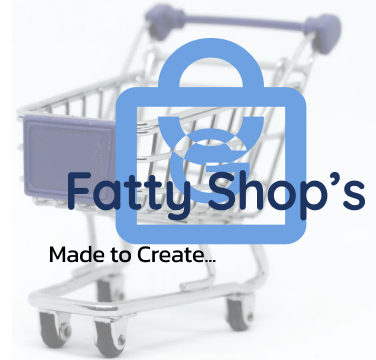
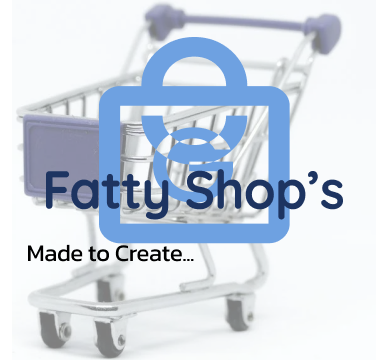
finished main page

Changed region(s): [[0.0585, 0.0917, 0.9947, 0.7333]]

diff --git a/styles.css b/styles.css
@@ -1,74 +1,163 @@
-
-*{
-    padding: 0;
-    margin: 0;
-    font-family: 'Kanit', sans-serif;
+* {
+  padding: 0;
+  margin: 0;
+  font-family: 'Kanit', sans-serif;
+}
+body {
+  background-color: #fafafa;
 }
 
 @media only screen and (max-width: 430px) {
+    #aboutImageDiv{
+        display: flex;
+        flex-direction: column;
+        align-items: center;
+        justify-content: center;
+        width: 100%;
+        margin-bottom: 60px;
+    }
+    #aboutImage{
+        height: 70%;
+        width: 70%;
+    }
+    .about{
+        background-color: #6290C8;
+        border-radius: 15px;
+        color: white;
+        width: 90%;
+        display: flex;
+text-align: center;
+        font-size: x-large;
+        font-weight: bold;
+        margin-bottom:30px;
+    }
+ 
+    .about p{
+        text-shadow: 0px 10px 15px #000;
+        width: 88%;
+        margin-left: 5%;
+    }
+  .article1 {
+    background-image: url('./article1.png');
+    width: 404px;
+    height: 226px;
+    display: flex;
+    align-items: center;
+    text-align: center;
+    font-size: x-large;
+    color: white;
+    margin-top: 40px;
+    text-shadow: 0px 10px 15px #000;
+    margin-bottom: 50px;
+  }
+  .article2 {
+    background-image: url('./article2.png');
+    width: 404px;
+    display: flex;
+    align-items: center;
+    text-shadow: 0px 10px 15px #000;
+    height: 226px;
+    text-align: center;
+    font-size: 22px;
+    color: white;
+    margin-bottom: 70px;
 
+  }
+ .main {
+    display: flex;
+    flex-direction: column;
+    align-items: center;
+    justify-content: center;
+  }
 
-#main{
-display: flex;
-align-items: center;
-justify-content: center;
-}
+  #imglogo{
+    margin-top: 140px;
+  }
 
+  .mainArtice {
+    font-weight: bolder;
+    border-radius: 15px;
+    margin-top: 60px;
+    width: 90%;
+    color: #1d3461;
+    text-align: center;
+    font-size: 40px;
+    background-color: #829cbc;
+  }
 
+  #getStarted1 {
+    width: 50%;
+    font-weight: bold;
+    height: 60px;
+    border-radius: 15px;
+    margin-top: 37px;
+    text-align: center;
+    font-size: 36px;
+    color: #ffffff;
+    background-color: #1d3461;
+  }
+  #getStarted2 {
+    width: 50%;
+    font-weight: bold;
+    height: 60px;
+    border-radius: 15px;
+    margin-bottom: 90px;
+    text-align: center;
+    font-size: 36px;
+    color: #ffffff;
+    background-color: #1d3461;
+  }
 
-header{
-    background-color: #1D3461;
+  header {
+    position: fixed;
+    z-index: 200;
+    background-color: #1d3461;
     width: 100%;
-}
-#smallImgHeader1{
+  }
+  #smallImgHeader1 {
     height: 64px;
     width: 64px;
     margin-top: 1.5%;
     margin-left: 1.5%;
-}
-#smallImgHeader2{
+  }
+  #smallImgHeader2 {
     height: 48px;
     width: 48px;
     float: right;
     margin-top: 3.2%;
     margin-right: 3%;
-}
-#smallImgFooter{
+  }
+  #smallImgFooter {
     height: 48px;
     width: 48px;
     margin-top: 1.5%;
     margin-left: 1.5%;
-}
-#smallImgFooter2{
+  }
+  #smallImgFooter2 {
     float: right;
-    margin-top:1.5%;
+    margin-top: 1.5%;
     margin-right: 1.5%;
-}
-footer{
-    background-color: #1D3461;
+  }
+  footer {
+    background-color: #1d3461;
     width: 100%;
     bottom: 0;
     position: fixed;
-
-}
-#logoFooter{
+  }
+  #logoFooter {
     margin-left: 15%;
     margin-bottom: 10px;
-}
-a{
+  }
+  a {
     text-decoration: none;
     color: white;
-}
-a:hover{
+  }
+  a:hover {
     text-decoration: none;
-}
+  }
 
-
-
-
-
-.Navbar {
-    background-color: #1F487E;
+  .Navbar {
+    background-color: #1f487e;
     display: flex;
     font-family: sans-serif;
     color: #ebebeb;
@@ -77,48 +166,32 @@ a:hover{
     align-items: center;
     align-content: center;
   }
-      .Navbar__Items,
-    .Navbar {
-      flex-direction: column;
-    }
-      
-  .Navbar__Items {
-      display:none;
-      
-    }
-      
-  .Navbar__ToggleShow {
-      display: flex;
-      position: fixed;
-      background-color: #1F487E;
-      width: 100%;
-      align-items: center;
-justify-content: center;
-    }
+  .Navbar__Items,
+  .Navbar {
+    flex-direction: column;
+  }
 
-  .square{
+  .Navbar__Items {
+    display: none;
+  }
+
+  .Navbar__ToggleShow {
+    display: flex;
+    position: fixed;
+    margin-top: 76px;
+    background-color: #1f487e;
+    width: 100%;
+    align-items: center;
+    justify-content: center;
+  }
+
+  .square {
     margin-top: 5px;
     margin-bottom: 5px;
     width: 250px;
     height: 48px;
     border-radius: 15px;
     text-align: center;
-    background-color: #1D3461;
+    background-color: #1d3461;
   }
-
-
-
-
 }
-
-
-
-
-
-
-
-
-
-
-
-

diff --git a/index.html b/index.html
@@ -44,8 +44,60 @@
 
 
 
-<div id="main">
-<img src="./cartImage.png" alt="">
+<div class="main">
+    
+<img id="imglogo" src="./cartImage.png" alt="">
+
+<div class="mainArtice">
+    <p><span>Free</span> online store generator dedicated to Small Businesses!</p>
+</div>
+<a href="" id="getStarted1">Get started</a>
+
+<div class="article1">
+<p>
+Online stores have surpassed brick-and-mortar supermarkets due to 
+the convenience of shopping from home, the wide range of products
+available, and the ability to compare prices among different retailers.
+</p>
+</div>
+<div class="article2">
+<p>
+    Despite this, 70% of smaller businesses have not established an online presence. 
+    It is worthwhile for such businesses to consider expanding their operations on 
+    the internet. Our Free Generator is an ideal tool to facilitate this process.
+</p>
+</div>
+    <div id="aboutImageDiv">
+        <img id="aboutImage"src="./aboutImage.svg" alt="">
+    </div>
+<div class="about">
+
+<p>  <br>
+      <span style="font-size: xx-large;">Welcome to Our online shop generator!</span> <br><br>
+
+    Are you a small business owner who
+     doesn't have an online store yet? 
+     Or maybe you are just thinking about
+     starting your e-commerce adventure?
+     No matter what your situation is, 
+    our online store generator can help you
+    launch your own store quickly and easily.
+    <br><br>
+    Thanks to our tool, you no longer need 
+    technical knowledge or experience in
+    creating websites. Our generator offers
+    an easy-to-use template that will
+    allow you to create your own online 
+    store perfectly suited to your needs.
+    You can easily add your products,
+    customize the look of the store and
+     import all the necessary data, such
+      as prices, descriptions, and photos.<br><br>
+    </p>
+</div>
+<a href="" id="getStarted2">Get started</a>
+
+
 </div>
 
 
